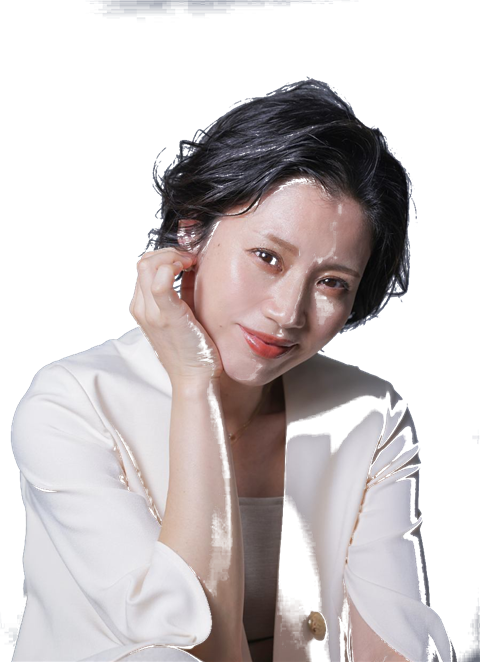
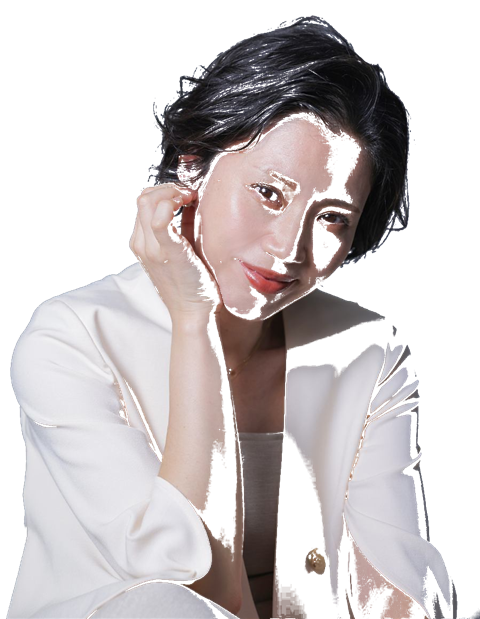
Mobile hero arc/photo positioning; profile PNG padded for oval clearance

diff --git a/index.html b/index.html
@@ -1460,10 +1460,11 @@
       .hero-stage {
         height: clamp(420px, 70vh, 560px);
       }
-      /* Mobile: arc text moved further up + smaller, photo pushed down so they NEVER overlap */
-      .hero-arc { width: min(88vw, 460px); top: -28px; }
-      .hero-arc-text { font-size: 50px; }
-      .hero-center { width: 160px; height: 214px; top: 28%; }
+      /* Mobile: arc text sits in the gap between top floats and the center photo */
+      .hero-stage { height: clamp(540px, 78vh, 620px); }
+      .hero-arc { width: min(90vw, 480px); top: 13%; }
+      .hero-arc-text { font-size: 54px; }
+      .hero-center { width: 168px; height: 220px; top: 33%; }
       /* Mobile: 8 photos around hero (4 left + 4 right), tighter & smaller, no overlap */
       .hero-float.f1  { width: 60px; height: 78px;  top: 2%;  left: 22%;  }
       .hero-float.f2  { width: 70px; height: 92px;  top: 22%; left: 1%;   }
@@ -1735,7 +1736,7 @@
     <div class="oval-container">
       <div class="oval-dark-bg"></div>
       <div class="oval-frame">
-        <img src="image/portrait_profile_cutout.png?v=7" alt="">
+        <img src="image/portrait_profile_cutout.png?v=9" alt="">
         <div class="oval-overlay-text">Hanu.</div>
       </div>
     </div>